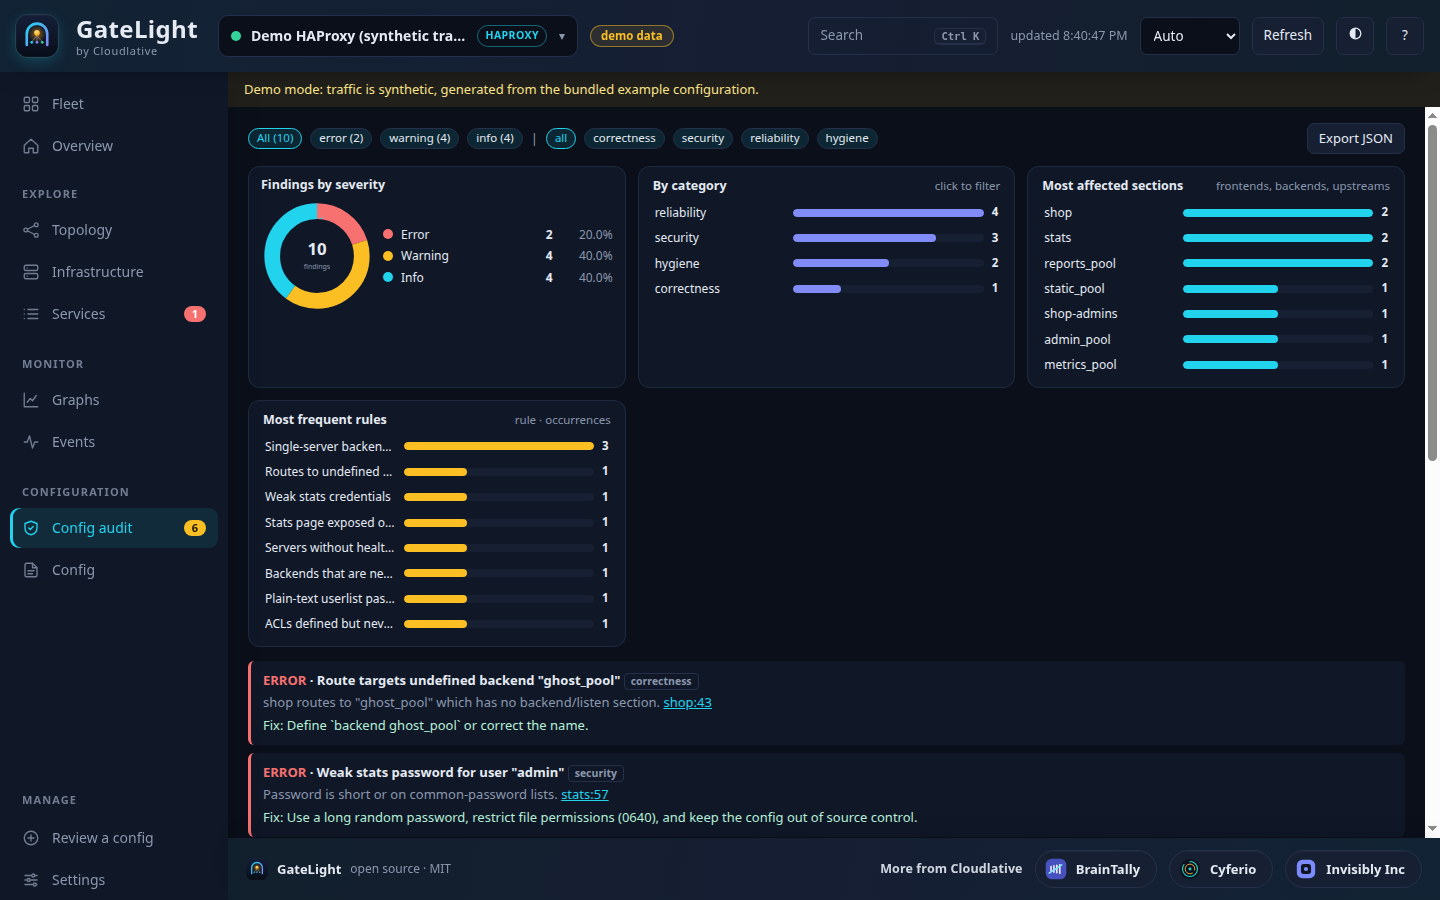
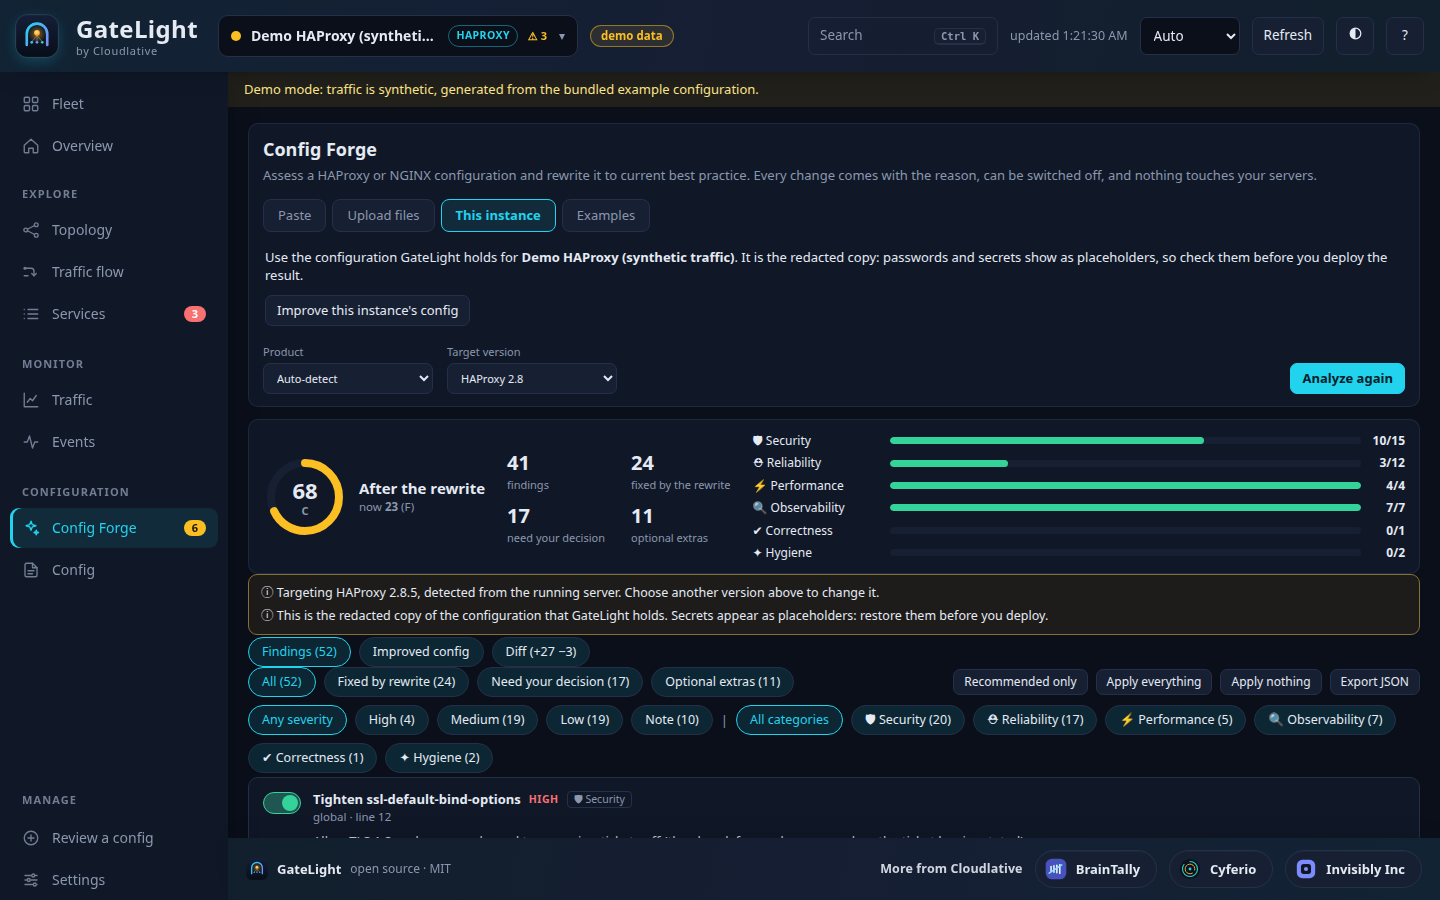
Website: merged pages, new screenshots, Config Forge

diff --git a/index.html b/index.html
@@ -144,10 +144,11 @@
       <article class="feat reveal d1"><div class="ico c2"><svg viewBox="0 0 24 24"><rect x="3" y="3" width="18" height="7" rx="2"/><rect x="3" y="14" width="18" height="7" rx="2"/><path d="M7 6.5h.01M7 17.5h.01"/></svg></div><h3>Infrastructure view</h3><p>Networks → hosts → services behind the load balancer, with aliveness for every one and an "only what is down" filter.</p></article>
       <article class="feat reveal d2"><div class="ico c3"><svg viewBox="0 0 24 24"><path d="M3 3v18h18"/><path d="M7 15l4-5 3 3 5-7"/></svg></div><h3>Charts with history</h3><p>Grafana-style: zoom, pan, shared crosshair, 5 minutes to 7 days, kept in SQLite across restarts. Donut charts for HTTP errors.</p></article>
       <article class="feat reveal"><div class="ico c4"><svg viewBox="0 0 24 24"><path d="M12 3l8 3v6c0 5-3.5 8-8 9-4.5-1-8-4-8-9V6z"/><path d="M9 12l2 2 4-4"/></svg></div><h3>Config audit, 39 rules</h3><p>Undefined backends, orphaned pools, missing health checks, weak credentials, exposed stats, config drift. Every finding has a line and a fix.</p></article>
-      <article class="feat reveal"><div class="ico c2"><svg viewBox="0 0 24 24"><path d="M9 11l3 3L22 4"/><path d="M21 12v7a2 2 0 0 1-2 2H5a2 2 0 0 1-2-2V5a2 2 0 0 1 2-2h11"/></svg></div><h3>Validate against any version</h3><p>Check a config against the official docs of the exact release you run: HAProxy 1.7 to 3.4 and NGINX. See what is unknown, too new, removed or deprecated there, with a fix and version-aware recommendations.</p></article>
+      <article class="feat reveal"><div class="ico c2"><svg viewBox="0 0 24 24"><path d="M9 11l3 3L22 4"/><path d="M21 12v7a2 2 0 0 1-2 2H5a2 2 0 0 1-2-2V5a2 2 0 0 1 2-2h11"/></svg></div><h3>Validate against any version</h3><p>Config Forge checks a config against the official docs of the exact release you run: HAProxy 1.7 to 3.4 and NGINX. See what is unknown, too new, removed or deprecated there, with a fix and version-aware recommendations.</p></article>
       <article class="feat reveal d2"><div class="ico c3"><svg viewBox="0 0 24 24"><path d="M3 7h9a4 4 0 0 1 4 4v6"/><path d="M13 14l3 3 3-3"/><path d="M3 17h5"/></svg></div><h3>Port-to-port and URI mapping</h3><p>Domain to listener to server: which backend address and port each domain reaches, where TLS ends, and the exact path your backend receives after rewrites. Every relationship is marked active, idle, down or never used, and you can filter to what is alive, not alive or unused. Try any URL against the config.</p></article>
       <article class="feat reveal"><div class="ico c4"><svg viewBox="0 0 24 24"><rect x="3" y="4" width="18" height="6" rx="2"/><rect x="3" y="14" width="18" height="6" rx="2" stroke-dasharray="3 3"/></svg></div><h3>L7 and L4 at a glance</h3><p>Every frontend and pool is labelled HTTP (L7) or TCP (L4), with a layer filter and tooltips on what each layer can and cannot see.</p></article>
       <article class="feat reveal d2"><div class="ico c5"><svg viewBox="0 0 24 24"><path d="M3 3v18h18"/><path d="M7 16V11M12 16V7M17 16v-3"/></svg></div><h3>Traffic statistics from your log</h3><p>Upload one or more HAProxy logs (plain or gzipped, size-limited, shown combined) and see requests, response times, errors, status codes, servers, URLs and clients, with filters. Only aggregates are kept. Instructions for splitting big logs are built in.</p></article>
+      <article class="feat reveal"><div class="ico c3"><svg viewBox="0 0 24 24"><path d="M12 3l1.8 4.6L18.5 9l-4.7 1.4L12 15l-1.8-4.6L5.5 9l4.7-1.4z"/><path d="M19 15l.8 2.2L22 18l-2.2.8L19 21l-.8-2.2L16 18l2.2-.8z"/></svg></div><h3>Config Forge: rewrite to best practice</h3><p>Paste a HAProxy or NGINX config and get a score, every issue explained, and a rewritten version for your exact release. Each change can be switched off, and nothing touches your servers.</p></article>
       <article class="feat reveal d1"><div class="ico c6"><svg viewBox="0 0 24 24"><path d="M21 12a9 9 0 1 1-3-6.7"/><path d="M21 4v5h-5"/></svg></div><h3>Refresh from the server</h3><p>Point GateLight at where your config is served and pull the current version with one click, with a summary of what changed. Read-only.</p></article>
       <article class="feat reveal d1"><div class="ico c5"><svg viewBox="0 0 24 24"><path d="M3 12h4l3-8 4 16 3-8h4"/></svg></div><h3>Live health for both</h3><p>HAProxy via CSV or the Runtime API. NGINX via stub_status, the Plus API and an active TCP probe, so even open-source NGINX gets per-server health.</p></article>
       <article class="feat reveal d2"><div class="ico c6"><svg viewBox="0 0 24 24"><path d="M14 3H6a2 2 0 0 0-2 2v14a2 2 0 0 0 2 2h12a2 2 0 0 0 2-2V9z"/><path d="M14 3v6h6M8 13h8M8 17h6"/></svg></div><h3>Review a config offline</h3><p>Drop a <code>haproxy.cfg</code>, an <code>nginx.conf</code> or a whole folder. Nothing is saved. Keep several as named instances and update them when files change.</p></article>
@@ -168,30 +169,30 @@
     <div class="tour reveal">
       <div class="tabs" role="tablist" aria-label="Screenshots">
         <button role="tab" aria-selected="true" data-tab="0">Overview</button>
-        <button role="tab" aria-selected="false" data-tab="1">Graphs</button>
-        <button role="tab" aria-selected="false" data-tab="2">Infrastructure</button>
+        <button role="tab" aria-selected="false" data-tab="1">Traffic</button>
+        <button role="tab" aria-selected="false" data-tab="2">Network layout</button>
         <button role="tab" aria-selected="false" data-tab="3">Topology</button>
         <button role="tab" aria-selected="false" data-tab="4">Traffic flow</button>
         <button role="tab" aria-selected="false" data-tab="5">Domains</button>
         <button role="tab" aria-selected="false" data-tab="6">Mind map</button>
         <button role="tab" aria-selected="false" data-tab="7">Tree</button>
         <button role="tab" aria-selected="false" data-tab="8">NGINX</button>
-        <button role="tab" aria-selected="false" data-tab="9">Audit</button>
+        <button role="tab" aria-selected="false" data-tab="9">Config Forge</button>
         <button role="tab" aria-selected="false" data-tab="10">Details</button>
       </div>
       <div class="window big">
         <div class="win-bar"><i></i><i></i><i></i><span id="tour-title">GateLight · Overview</span></div>
         <div class="shots">
           <img class="shot on" src="img/overview.png" alt="Overview: explained, clickable health cards and a traffic chart" width="1440" height="900">
-          <img class="shot" src="img/graphs.png" alt="Graphs: zoom, pan, clickable legends and donut charts" width="1440" height="900" loading="lazy">
-          <img class="shot" src="img/infrastructure.png" alt="Infrastructure: networks, hosts and services with aliveness" width="1440" height="900" loading="lazy">
+          <img class="shot" src="img/graphs.png" alt="Traffic: live metrics with zoom, pan, clickable legends and donut charts" width="1440" height="900" loading="lazy">
+          <img class="shot" src="img/infrastructure.png" alt="Topology network layout: networks, hosts and services with aliveness" width="1440" height="900" loading="lazy">
           <img class="shot" src="img/topology-haproxy.png" alt="Topology in the Layers layout" width="1440" height="900" loading="lazy">
           <img class="shot" src="img/traffic-flow-diagram.png" alt="Traffic flow: listeners, rules and pools with ports, member IPs and live status" width="1440" height="900" loading="lazy">
           <img class="shot" src="img/traffic-flow-domains.png" alt="Domains: each host name with its ports, redirects, rules and servers with their addresses" width="1440" height="900" loading="lazy">
           <img class="shot" src="img/topology-mindmap.png" alt="Mind map layout showing the URIs each node handles" width="1440" height="900" loading="lazy">
           <img class="shot" src="img/topology-tree.png" alt="Tree layout like the tree command" width="1440" height="900" loading="lazy">
           <img class="shot" src="img/topology-nginx.png" alt="NGINX topology with a URL map" width="1440" height="900" loading="lazy">
-          <img class="shot" src="img/audit.png" alt="Config audit with charts and findings" width="1440" height="900" loading="lazy">
+          <img class="shot" src="img/audit.png" alt="Config Forge: one list of findings with a score and a rewritten configuration" width="1440" height="900" loading="lazy">
           <img class="shot" src="img/details.png" alt="A details page for one backend" width="1440" height="900" loading="lazy">
         </div>
       </div>
